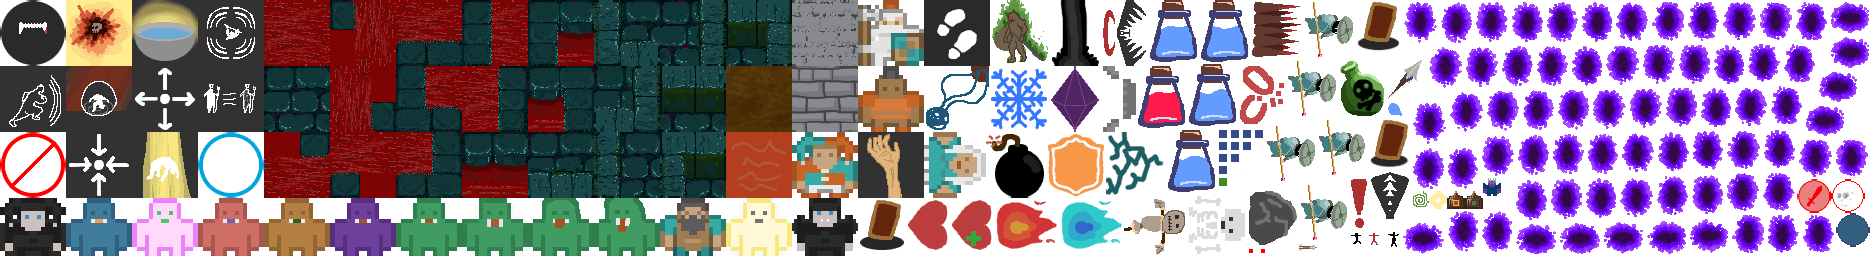
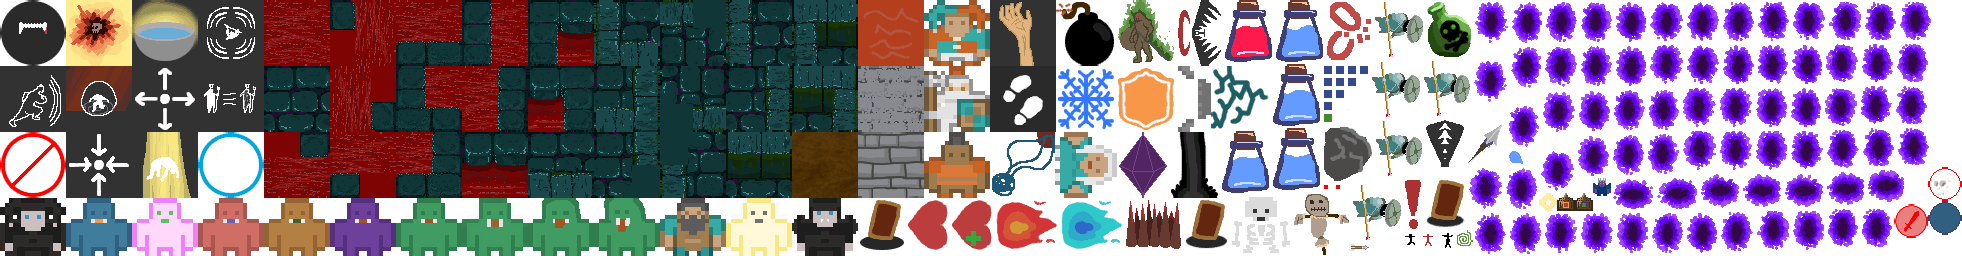
src: First effective new tile application

diff --git a/src/MapOrganicCave.ts b/src/MapOrganicCave.ts
@@ -283,16 +283,46 @@ export function resolveConflicts(map: Map) {
                 changeTile(i, finalTileImages.liquidCornerSW);
             }
         }
+        // change wall tiles
+        if (currentCell?.image == baseTiles.wall) {
+            if (neighbors.west == baseTiles.ground && neighbors.south == baseTiles.ground) {
+                changeTile(i, finalTileImages.wallInsideCornerNE);
+            } else if (neighbors.east == baseTiles.ground && neighbors.south == baseTiles.ground) {
+                changeTile(i, finalTileImages.wallInsideCornerNW);
+            } else if (neighbors.east == baseTiles.ground && neighbors.north == baseTiles.ground) {
+                changeTile(i, finalTileImages.wallInsideCornerSW);
+            } else if (neighbors.west == baseTiles.ground && neighbors.north == baseTiles.ground) {
+                changeTile(i, finalTileImages.wallInsideCornerSE);
+            } else if (neighbors.north == baseTiles.ground) {
+                changeTile(i, finalTileImages.wallS);
+            } else if (neighbors.east == baseTiles.ground) {
+                changeTile(i, finalTileImages.wallW);
+            } else if (neighbors.west == baseTiles.ground) {
+                changeTile(i, finalTileImages.wallE);
+            } else if (neighbors.south == baseTiles.ground) {
+                changeTile(i, finalTileImages.wallN);
+            } else if (neighbors.northeast == baseTiles.ground) {
+                changeTile(i, finalTileImages.wallCornerSW);
+            } else if (neighbors.northwest == baseTiles.ground) {
+                changeTile(i, finalTileImages.wallCornerSE);
+            } else if (neighbors.southeast == baseTiles.ground) {
+                changeTile(i, finalTileImages.wallCornerNW);
+            } else if (neighbors.southwest == baseTiles.ground) {
+                changeTile(i, finalTileImages.wallCornerNE);
+            }
+        }
     }
 
-    // All lava tiles turn to blood
-    // for (let i = 0; i < width * width; i++) {
-    //     const position = oneDimentionIndexToVec2(i, width);
-    //     const cell = getCell(map, position);
-    //     if (cell?.image == baseTiles.liquid) {
-    //         changeTile(i, all_liquid);
-    //     }
-    // }
+    // Change all remaining base tiles to final tiles
+    for (let i = 0; i < width * width; i++) {
+        const position = oneDimentionIndexToVec2(i, width);
+        const cell = getCell(map, position);
+        if (cell?.image == baseTiles.liquid) {
+            changeTile(i, all_liquid);
+        } else if (cell?.image == baseTiles.ground) {
+            changeTile(i, all_ground);
+        }
+    }
 }
 
 function crawlersChangeTilesToMaterial(crawlers: CaveCrawler[], material: Material, caveWidth: number, caveHeight: number, caveMaterialsArray: Material[]) {
@@ -489,4 +519,8 @@ const finalTileImages = {
     wallN: 'tiles/bloodWallTop.png',
     wallCornerNW: 'tiles/bloodWallTopLeft.png',
     wallCornerNE: 'tiles/bloodWallTopRight.png',
+    wallInsideCornerNE: 'tiles/bloodWallInsideCornerNE.png',
+    wallInsideCornerNW: 'tiles/bloodWallInsideCornerNW.png',
+    wallInsideCornerSE: 'tiles/bloodWallInsideCornerSE.png',
+    wallInsideCornerSW: 'tiles/bloodWallInsideCornerSW.png',
 };
